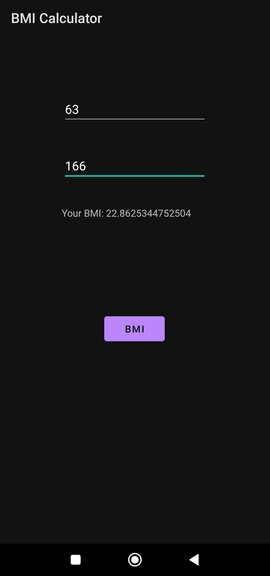
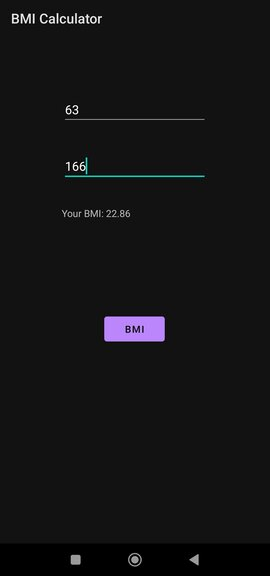
some bugs fixed

diff --git a/app/src/main/java/com/example/bmicalculator/MainActivity.kt b/app/src/main/java/com/example/bmicalculator/MainActivity.kt
@@ -27,13 +27,24 @@ class MainActivity : AppCompatActivity() {
 
 
             if (w.isBlank() || h.isBlank()) {
-                Toast.makeText(this, "please input data,cannot be blank", Toast.LENGTH_LONG).show()
+                Toast.makeText(this, "Data cannot be blank", Toast.LENGTH_LONG).show()
                 textView.setText("").toString()
             } else {
                 val weight = w.toInt()
-                val height: Double = h.toInt() / 100.0
-                val bmi: Double = weight / (height * height)
-                textView.setText("Your BMI: $bmi").toString()
+                val intHeight = h.toInt()
+
+                if ((weight in 1000 downTo 1) and (intHeight in 300 downTo 1)) {
+                    val height: Double = intHeight / 100.0
+                    val unformedBmi: Double = weight / (height * height)
+                    val bmi = String.format("%.2f", unformedBmi)
+                    textView.setText("Your BMI: $bmi").toString()
+                    if (bmi.toDouble() > 100) {
+                        Toast.makeText(this, "Are you Alive!", Toast.LENGTH_LONG).show()
+                    }
+                } else {
+                    Toast.makeText(this, "Please input valid data", Toast.LENGTH_LONG).show()
+                    textView.setText("").toString()
+                }
             }
         }
     }
